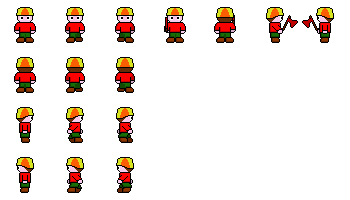
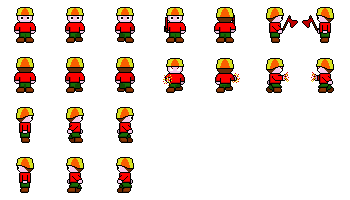
Give the player a fireball weapon he can switch to

diff --git a/lib/game/entities/player.js b/lib/game/entities/player.js
@@ -9,7 +9,7 @@
   */;
 
 
-  ig.module('game.entities.player').requires('game.entities.common.base-entity', 'game.entities.inventory', 'game.entities.weapons.axe').defines(function() {
+  ig.module('game.entities.player').requires('game.entities.common.base-entity', 'game.entities.inventory', 'game.entities.weapons.axe', 'game.entities.weapons.fireball').defines(function() {
     return EntityPlayer = EntityBaseEntity.extend({
       size: {
         x: 16,
@@ -38,8 +38,10 @@
       movingAnimSpeed: 0.1,
       movementAllowed: true,
       inventory: null,
-      axeTimer: null,
-      axeTime: 0.1,
+      weaponAnimTimer: null,
+      weaponAnimTime: 0.1,
+      weapon: 'axe',
+      weapons: ['axe', 'fireball'],
       init: function(x, y, settings) {
         this.addAnim('idleDown', this.idleAnimSpeed, [0]);
         this.addAnim('idleUp', this.idleAnimSpeed, [7]);
@@ -53,6 +55,10 @@
         this.addAnim('axeUp', this.movingAnimSpeed, [4]);
         this.addAnim('axeRight', this.movingAnimSpeed, [5]);
         this.addAnim('axeLeft', this.movingAnimSpeed, [6]);
+        this.addAnim('fireballDown', this.movingAnimSpeed, [10]);
+        this.addAnim('fireballUp', this.movingAnimSpeed, [11]);
+        this.addAnim('fireballRight', this.movingAnimSpeed, [12]);
+        this.addAnim('fireballLeft', this.movingAnimSpeed, [13]);
         this.state = this.states.DEFAULT;
         if (!ig.global.wm) {
           this.inventory = ig.game.spawnEntity(EntityInventory);
@@ -75,10 +81,13 @@
         return this.parent();
       },
       handleButtons: function() {
-        var axe;
+        var weapon;
         if (!this.movementAllowed) {
           this.reset();
           return;
+        }
+        if (ig.input.pressed('switchWeapon')) {
+          this.switchWeapon();
         }
         /* Inventory/Menu Navigation
         */
@@ -97,10 +106,12 @@
         */
 
         if (ig.input.pressed('attack')) {
-          this.currentAnim = this.anims['axe' + this.facing];
-          this.axeTimer = new ig.Timer();
-          axe = ig.game.spawnEntity('EntityAxe');
-          axe.pos = this.getWeaponCoordinates(axe);
+          this.currentAnim = this.anims[this.weapon + this.facing];
+          this.weaponAnimTimer = new ig.Timer();
+          weapon = ig.game.spawnEntity('Entity' + this.weapon.substring(0, 1).toUpperCase() + this.weapon.substring(1), 0, 0, {
+            facing: this.facing
+          });
+          weapon.pos = this.getWeaponCoordinates(weapon);
         }
         /* Movement
         */
@@ -166,12 +177,20 @@
         }
         return pos;
       },
+      switchWeapon: function() {
+        var weapon;
+        weapon = this.weapons.indexOf(this.weapon) + 1;
+        if (weapon > this.weapons.length - 1) {
+          weapon = 0;
+        }
+        return this.weapon = this.weapons[weapon];
+      },
       reset: function() {
-        if (!(this.axeTimer != null)) {
+        if (!(this.weaponAnimTimer != null)) {
           this.currentAnim = this.anims['idle' + this.facing];
         } else {
-          if (this.axeTimer.delta() > this.axeTime) {
-            this.axeTimer = null;
+          if (this.weaponAnimTimer.delta() > this.weaponAnimTime) {
+            this.weaponAnimTimer = null;
           }
         }
         this.vel.x = 0;

diff --git a/lib/game/entities/weapons/fireball.js b/lib/game/entities/weapons/fireball.js
@@ -1,0 +1,67 @@
+// Generated by CoffeeScript 1.4.0
+(function() {
+  /*;
+
+  var EntityFireball;
+
+  EntityFireball = {};
+
+  */;
+
+
+  ig.module('game.entities.weapons.fireball').requires('game.entities.common.base-entity').defines(function() {
+    return EntityFireball = EntityBaseEntity.extend({
+      size: {
+        x: 11,
+        y: 11
+      },
+      collides: ig.Entity.COLLIDES.NEVER,
+      type: ig.Entity.TYPE.A,
+      checkAgainst: ig.Entity.TYPE.BOTH,
+      animSheet: new ig.AnimationSheet('media/characters/fireball.png', 11, 11),
+      maxVel: {
+        x: 400,
+        y: 400
+      },
+      idleAnimSpeed: 0.06,
+      init: function(x, y, settings) {
+        this.addAnim('up', this.idleAnimSpeed, [0]);
+        this.addAnim('down', this.idleAnimSpeed, [1]);
+        this.addAnim('right', this.idleAnimSpeed, [2]);
+        this.addAnim('left', this.idleAnimSpeed, [3]);
+        this.parent(x, y, settings);
+        this.currentAnim = this.anims[this.facing.toLowerCase()];
+        return this.vel = this.vel.x > 0 || this.vel.y > 0 ? this.vel : this.facing === 'Up' ? {
+          x: 0,
+          y: -this.maxVel.y
+        } : this.facing === 'Down' ? {
+          x: 0,
+          y: this.maxVel.y
+        } : this.facing === 'Right' ? {
+          x: this.maxVel.x,
+          y: 0
+        } : this.facing === 'Left' ? {
+          x: -this.maxVel.x,
+          y: 0
+        } : void 0;
+      },
+      update: function() {
+        if (this.vel.x === 0 && this.vel.y === 0) {
+          this.kill();
+        }
+        return this.parent();
+      },
+      check: function(other) {
+        other.receiveDamage(50, this);
+        return this.kill();
+      },
+      handleMovementTrace: function(res) {
+        if (res.collision.x || res.collision.y) {
+          this.kill();
+        }
+        return this.parent(res);
+      }
+    });
+  });
+
+}).call(this);

diff --git a/lib/game/main.js b/lib/game/main.js
@@ -13,7 +13,7 @@
     }
   };
 
-  ig.module('game.main').requires('impact.game', 'impact.font', 'impact.debug.debug', 'plugins.impact-splash-loader', 'plugins.director.director', 'game.levels.market1', 'game.levels.forest1', 'game.entities.common.base-entity', 'game.entities.common.particle-generator', 'game.entities.common.particle', 'game.entities.inventory', 'game.entities.inventory-item', 'game.entities.player', 'game.entities.trader', 'game.entities.stall', 'game.entities.tree', 'game.entities.log', 'game.entities.menu', 'game.entities.enemy').defines(function() {
+  ig.module('game.main').requires('impact.game', 'impact.font', 'impact.debug.debug', 'plugins.impact-splash-loader', 'plugins.director.director', 'game.levels.market1', 'game.levels.forest1', 'game.entities.common.base-entity', 'game.entities.common.particle-generator', 'game.entities.common.particle', 'game.entities.weapons.axe', 'game.entities.weapons.fireball', 'game.entities.inventory', 'game.entities.inventory-item', 'game.entities.player', 'game.entities.trader', 'game.entities.stall', 'game.entities.tree', 'game.entities.log', 'game.entities.menu', 'game.entities.enemy').defines(function() {
     var MainGame, StartScreen;
     ig.Game.inject({
       loadLevel: function(level) {
@@ -49,6 +49,7 @@
         ig.input.bind(ig.KEY.UP_ARROW, 'up');
         ig.input.bind(ig.KEY.DOWN_ARROW, 'down');
         ig.input.bind(ig.KEY.SPACE, 'attack');
+        ig.input.bind(ig.KEY.TAB, 'switchWeapon');
         ig.input.bind(ig.KEY.ENTER, 'confirm');
         ig.input.bind(ig.KEY.I, 'inventory');
         ig.input.bind(ig.KEY.MOUSE1, 'confirm');
